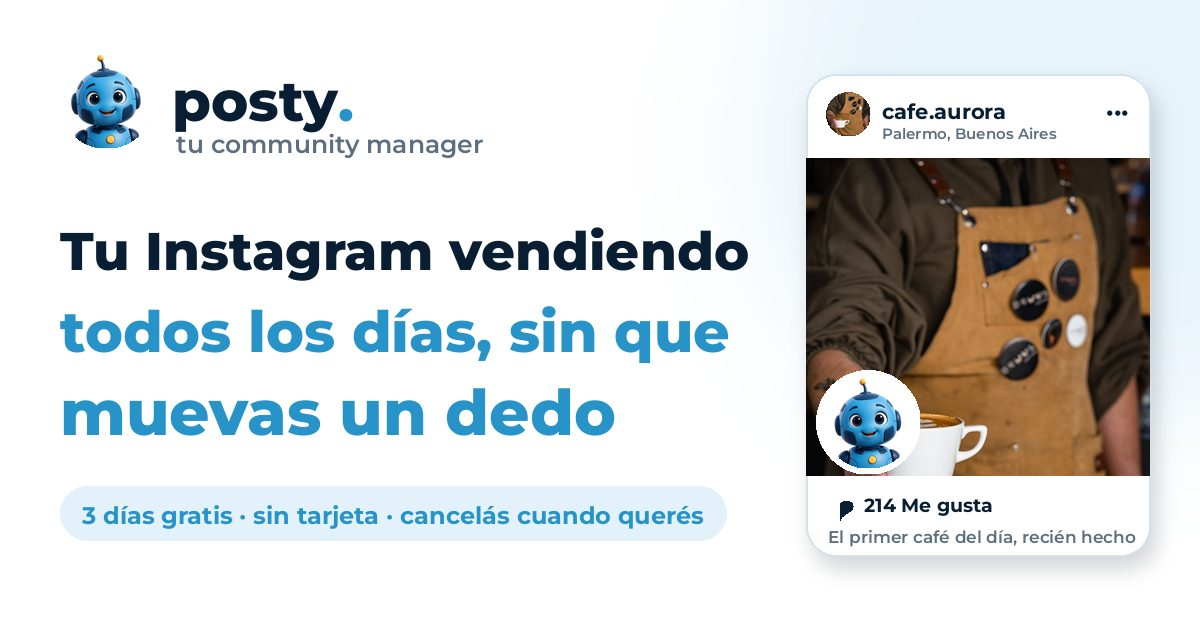
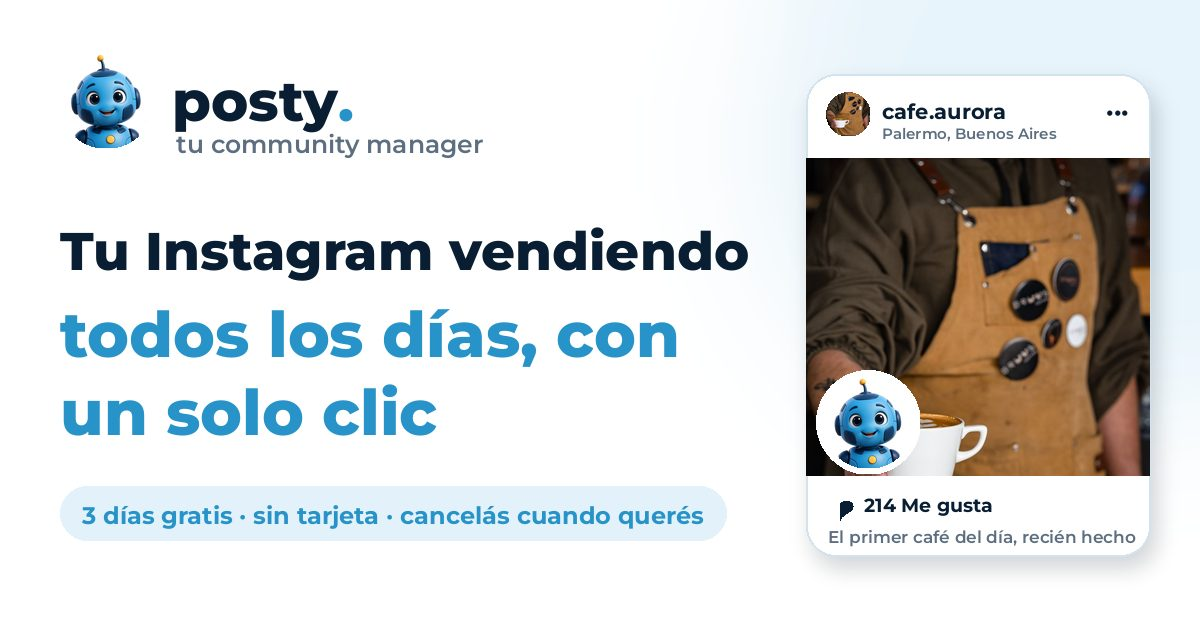
v178: titular final del H1 (con un solo clic) en héroe, OG y portada

Changed region(s): [[0.0617, 0.4825, 0.6167, 0.573], [0.0617, 0.6032, 0.5242, 0.6937]]

diff --git a/public/index.html b/public/index.html
@@ -6,13 +6,13 @@
 <title>Posty — Tu community manager 🤖</title>
 <meta property="og:type" content="website">
 <meta property="og:url" content="https://postyhacetodo.com/">
-<meta property="og:title" content="Tu Instagram vendiendo todos los días, sin que muevas un dedo · Posty">
+<meta property="og:title" content="Tu Instagram vendiendo todos los días, con un solo clic · Posty">
 <meta property="og:description" content="Posty es tu community manager completo: publica, responde comentarios y mensajes, cuida tus reseñas y potencia lo que vende. Probalo 3 días gratis, sin tarjeta.">
 <meta property="og:image" content="https://postyhacetodo.com/og-cover.jpg">
 <meta property="og:image:width" content="1200">
 <meta property="og:image:height" content="630">
 <meta name="twitter:card" content="summary_large_image">
-<meta name="twitter:title" content="Tu Instagram vendiendo todos los días, sin que muevas un dedo · Posty">
+<meta name="twitter:title" content="Tu Instagram vendiendo todos los días, con un solo clic · Posty">
 <meta name="twitter:description" content="Posty es tu community manager completo: publica, responde comentarios y mensajes, cuida tus reseñas y potencia lo que vende. Probalo 3 días gratis, sin tarjeta.">
 <meta name="twitter:image" content="https://postyhacetodo.com/og-cover.jpg">
 <link rel="manifest" href="/manifest.json">
@@ -43,7 +43,7 @@
   <div class="hero"><div class="wrap">
     <img class="hero-posty" src="ai-avatar.png" alt="Posty, tu community manager">
     <div class="pill">🤖 Tu community manager</div>
-    <h1>Tu Instagram vendiendo<br><span class="hl">todos los días, sin que muevas un dedo</span></h1>
+    <h1>Tu Instagram vendiendo<br><span class="hl">todos los días, con un solo clic</span></h1>
     <p class="sub">Posty crea las ideas, los diseños y los textos con <b>tu marca</b> — y los publica solo. Posteos, reels, historias, comentarios, mensajes y pauta — todo tu Instagram, hecho por Posty. Vos no hacés nada: solo frenás si algo no te cierra.</p>
     <form class="lp-igform" onsubmit="var v=this.querySelector('input').value.replace('@','').trim().toLowerCase();location.href=v?'/prueba?ig='+encodeURIComponent(v):'/prueba';return false">
       <input type="text" autocomplete="off" autocapitalize="off" spellcheck="false" placeholder="@tu_negocio" aria-label="Tu Instagram">
@@ -72,7 +72,7 @@
 @keyframes pj-cascade-lg{0%{transform:translate(-68px,34px);animation-timing-function:ease-out}28%{transform:translate(0,-58px);animation-timing-function:ease-in}50%{transform:translate(68px,34px);animation-timing-function:ease-out}78%{transform:translate(0,-58px);animation-timing-function:ease-in}100%{transform:translate(-68px,34px)}}
 </style>
 <script>setTimeout(function(){var b=document.getElementById('posty-boot');if(b)b.remove();},6000);</script>
-<script src="/app.js?v=147"></script>
+<script src="/app.js?v=148"></script>
 <script>
 if ('serviceWorker' in navigator) {
   window.addEventListener('load', function () {

diff --git a/public/app.js b/public/app.js
@@ -796,7 +796,7 @@ function landingView(cfg) {
   <div class="hero"><div class="wrap">
     <img class="hero-posty" src="ai-avatar.png" alt="Posty, tu community manager">
     <div class="pill">🤖 Tu community manager</div>
-    <h1>Tu Instagram vendiendo<br><span class="hl">todos los días, sin que muevas un dedo</span></h1>
+    <h1>Tu Instagram vendiendo<br><span class="hl">todos los días, con un solo clic</span></h1>
     <p class="sub">Posty crea las ideas, los diseños y los textos con <b>tu marca</b> — y los publica solo. Posteos, reels, historias, comentarios, mensajes y pauta — todo tu Instagram, hecho por Posty. Vos no hacés nada: solo frenás si algo no te cierra.</p>
     <form class="lp-igform" onsubmit="return lpGoTrial(event)">
       <input id="lpIg" type="text" autocomplete="off" autocapitalize="off" spellcheck="false" placeholder="@tu_negocio" aria-label="Tu Instagram">

diff --git a/server.js b/server.js
@@ -11210,7 +11210,7 @@ function logGenError(where, err) {
 //   https://postyhacetodo.com/api/version  →  {"build":"..."}.
 // Si después de subir muestra un BUILD_ID viejo, algún archivo se subió
 // duplicado (ej. "server 2.js" en vez de reemplazar "server.js").
-const BUILD_ID = '20261017-v177';
+const BUILD_ID = '20261017-v178';
 app.get('/api/health', (req, res) => res.json({ ok: true, app: 'posta', demoDefault: true }));
 app.get('/api/qa-audit', (req, res) => {
   try {
